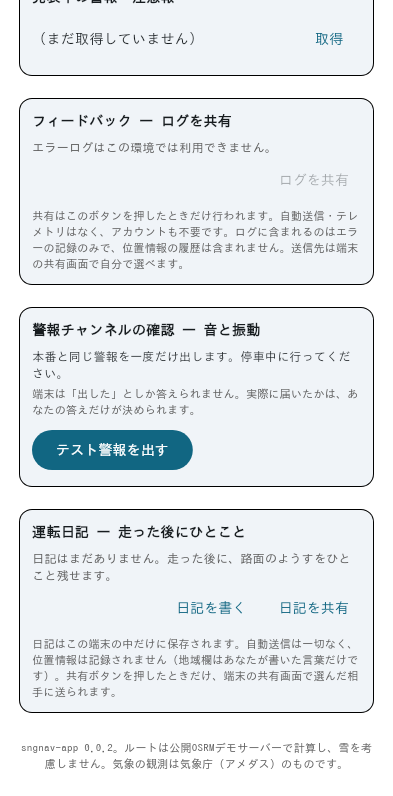
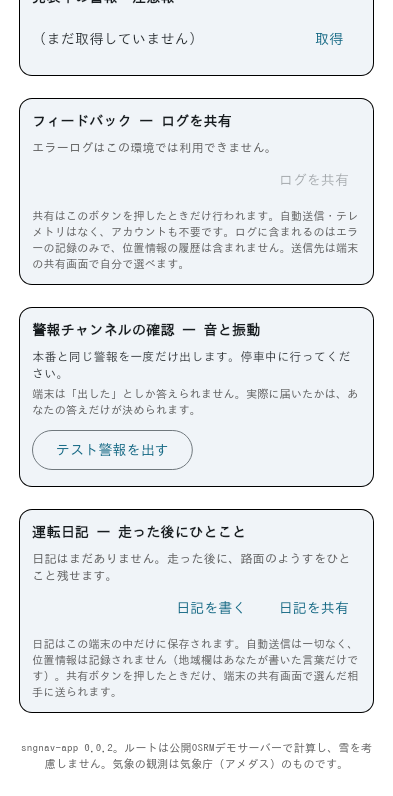
The warning channel check was louder than a warning in force; its button is outlined now
A live warning's card can sit on the same screen as the channel-check card:
with one severe JMA warning in force, the lowest screen that still holds the
whole check button also holds the warning. Rendered at 393 x 852 and looked at
with colour and fine detail taken away, the check's filled button was the
darkest object on that screen: its darkest point 0.31 on a 0-1 grey scale,
the whole warning card's 0.51. A check she runs once, parked, must never be
louder than a warning in force.

Outlined, the warning is the darkest mark on that screen (the button's darkest
point 0.77 in Japanese, 0.84 in English). Same place, same words, same 48 px
tap target, and the same button semantics: both button classes build their
semantics in ButtonStyleButton. The label is 5.85:1 on the card and the
outline 4.07:1. The card's own save button was already outlined.

The diary golden draws the foot of the page, this card included, so it was
re-cut. All 6,155 differing pixels sit inside the button's box; the written
golden is byte-identical to the frame that was looked at. The full suite
otherwise passed (1,282 of 1,283, the one being this golden).

Not measured: a phone, a timed glance, a device text scale other than 1.0.

Changed region(s): [[0.0611, 0.5427, 0.4885, 0.603]]

diff --git a/lib/main.dart b/lib/main.dart
@@ -4302,9 +4302,15 @@ class _HomePageState extends State<HomePage> {
           style: TextStyle(fontSize: 11, color: Colors.grey.shade700),
         ),
         const SizedBox(height: 8),
+        // Outlined, not filled. A live warning's card can sit on the same
+        // screen as this button, and a filled button was the darkest thing on
+        // that screen once colour and fine detail were taken away: darker than
+        // the warning itself. A check she runs once, parked, must never be
+        // louder than a warning in force. Same place, same words, same 48 px
+        // target and the same button semantics; only the fill changed.
         Align(
           alignment: AlignmentDirectional.centerStart,
-          child: FilledButton(
+          child: OutlinedButton(
             key: const Key('channel-check-fire'),
             onPressed: _ccFiring ? null : _fireChannelCheck,
             child: Text(
